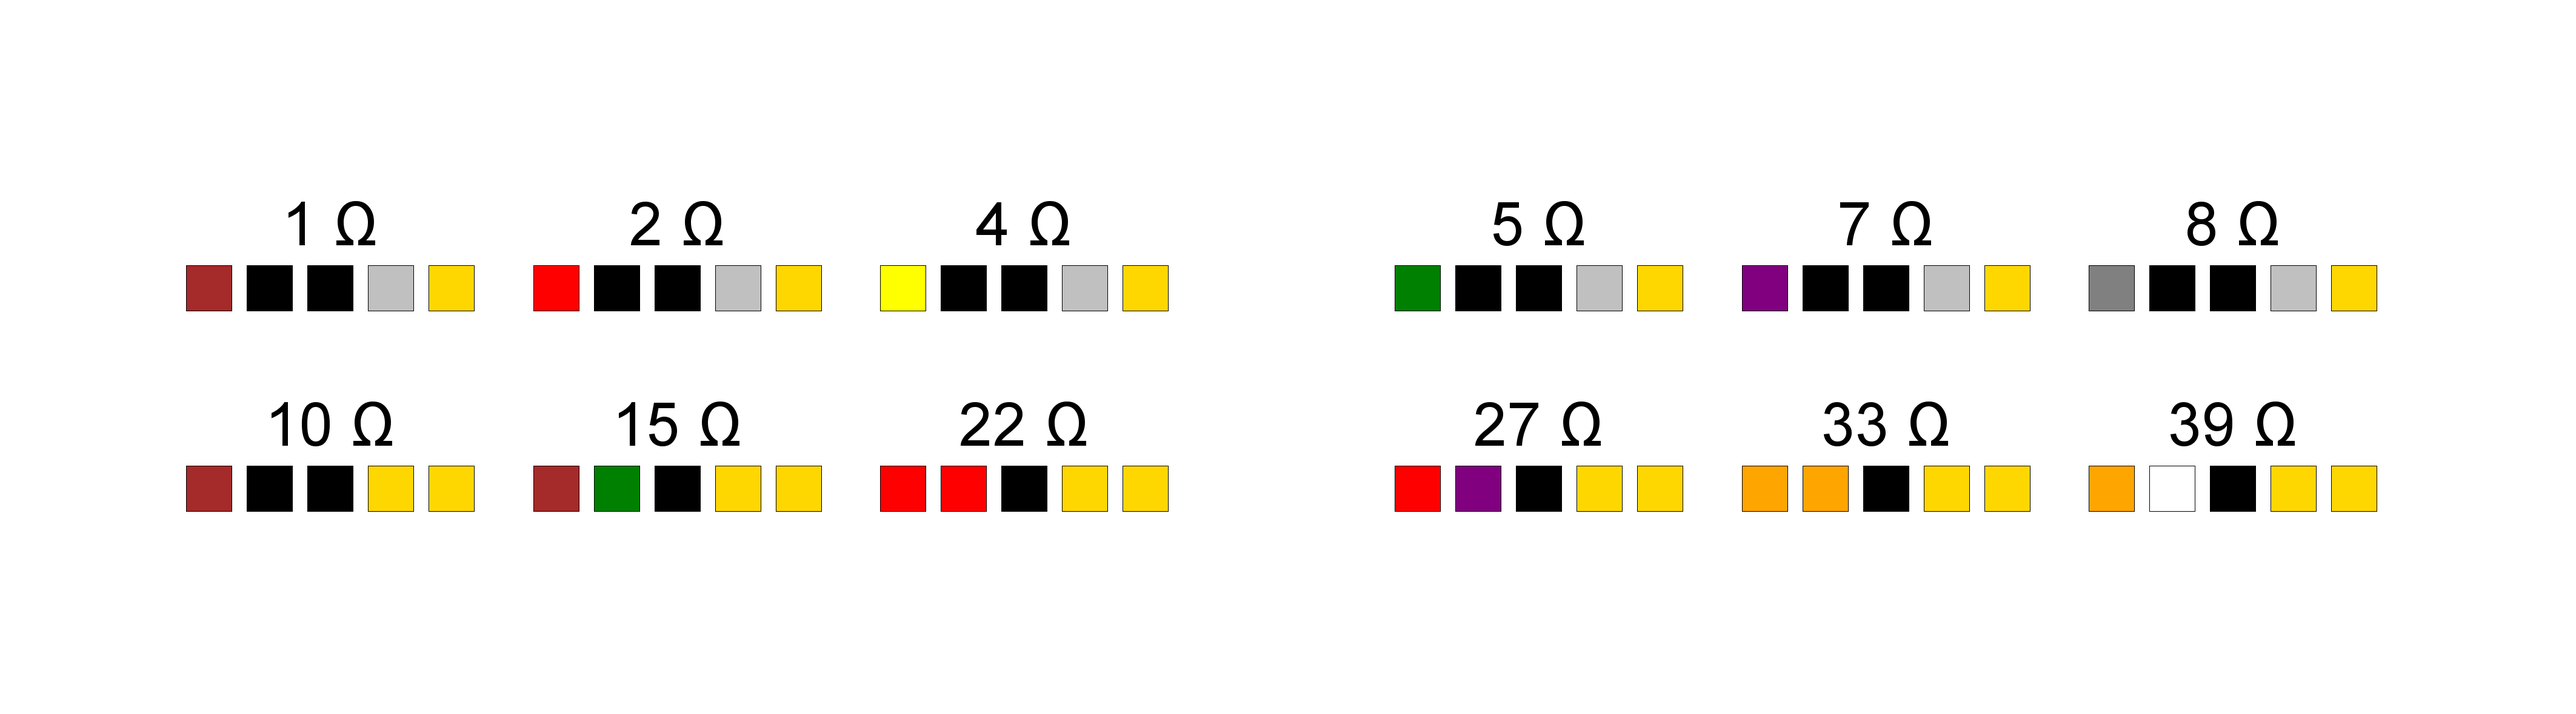
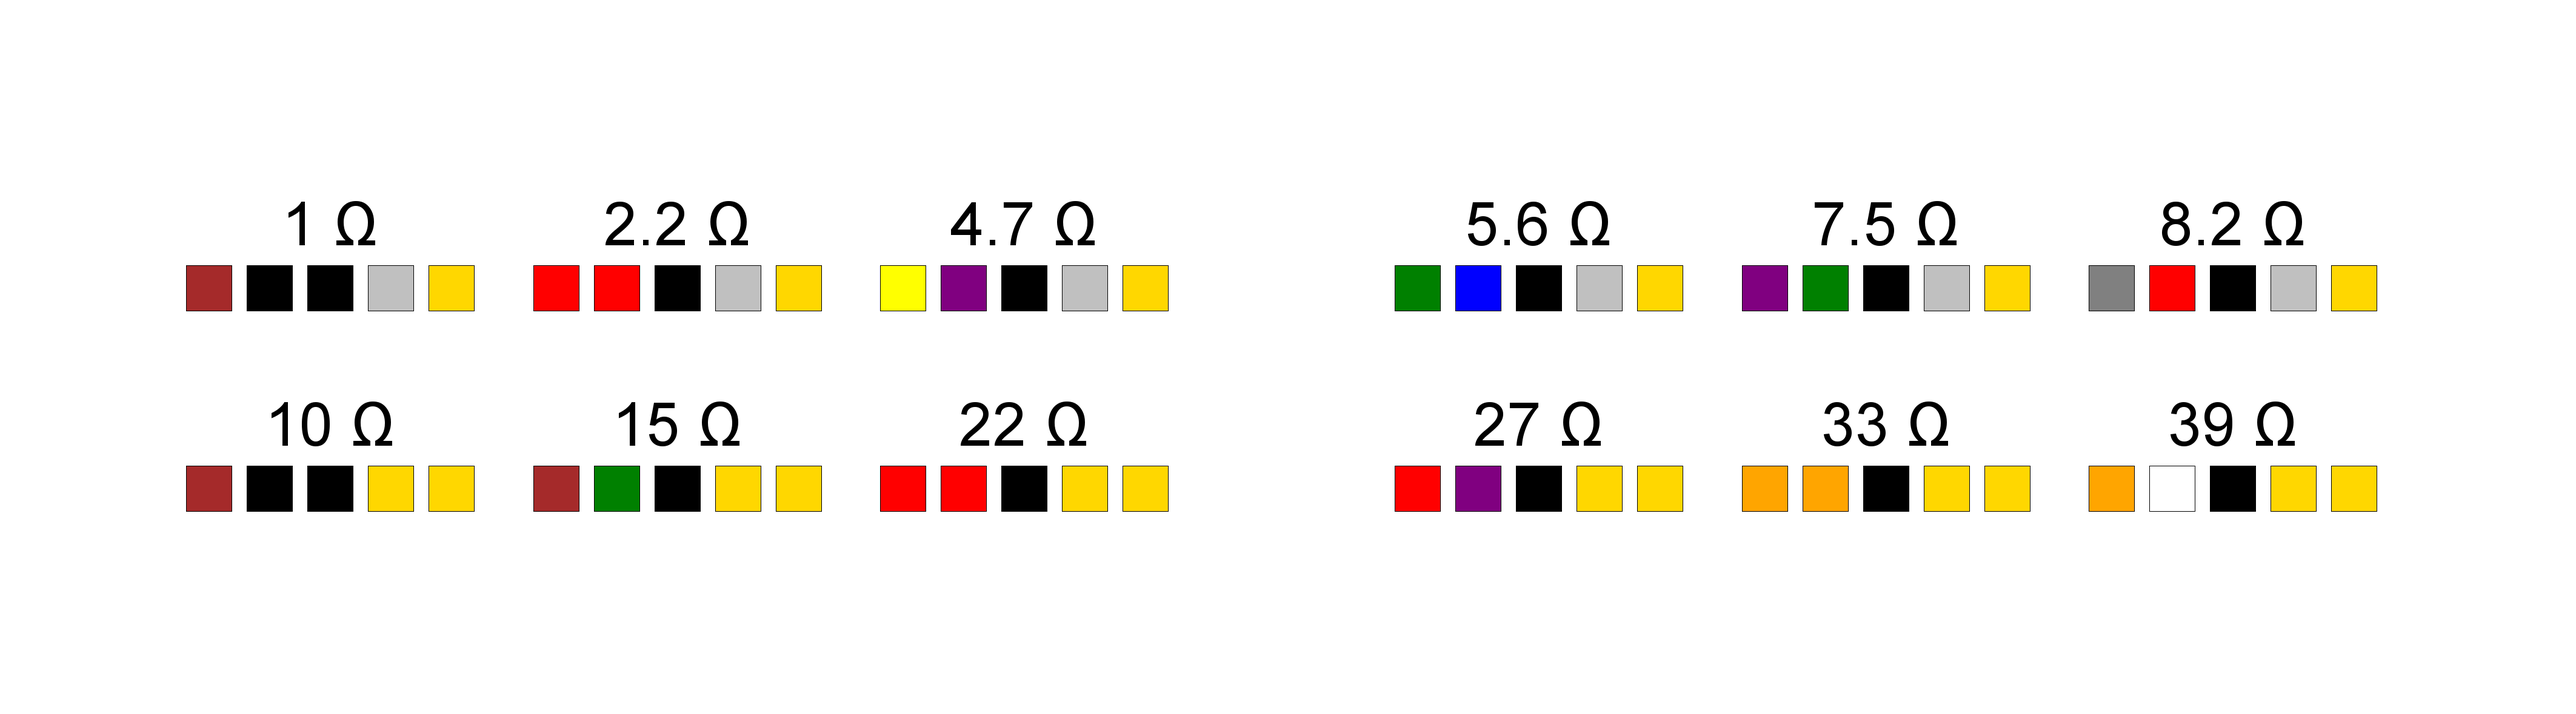
Fixed integer truncation bug present in example images
- Updated fontSize command line option's help message to better reflect how it works

diff --git a/eclb.py b/eclb.py
@@ -29,7 +29,7 @@ import sheetBuilder
 @click.option('--scale', '-s', type=int, help='The scale for rendering the sticker sheet. Bigger scale means higher resolution. Might have to play around with this to get the units to work.')		# sheetBuilder
 @click.option('--output-format', '-o', help='Image type to save the sticker sheet as.')
 @click.option('--font', type=click.Path(exists=True), help='Path to the font to use in label text.')
-@click.option('--font-size', '-f', type=int, help='The size of the font used on the labels.')
+@click.option('--font-size', '-f', type=int, help='The size of the font used on the labels. (as a percentage, ex. 100 is default).')
 @click.option('--box-size', type=float, help='The size of the boxes that hold color bands. (inches)')
 @click.option('--box-spacer-width', type=float, help='The size of the spacer between the color band boxes. (inches)')
 @click.option('--labels-per-sticker', '-l', type=int, help='The number of labels to place in each sticker.')
